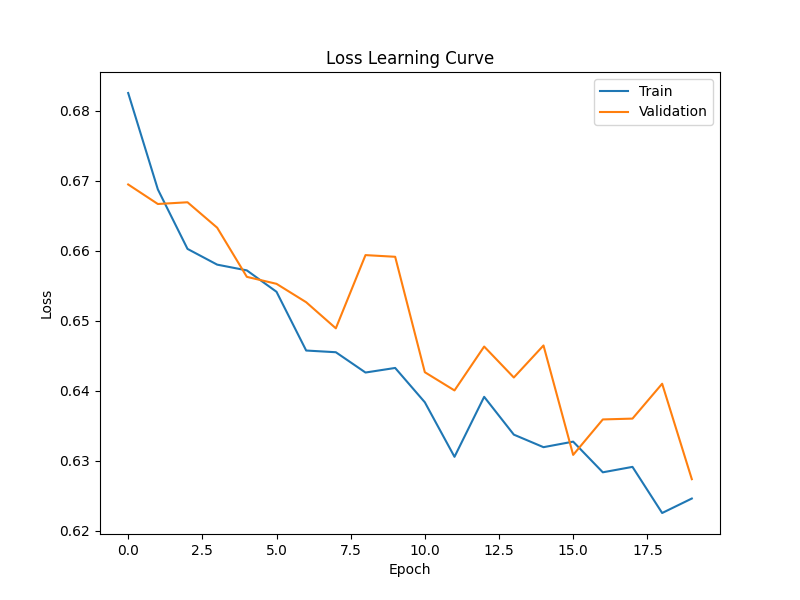
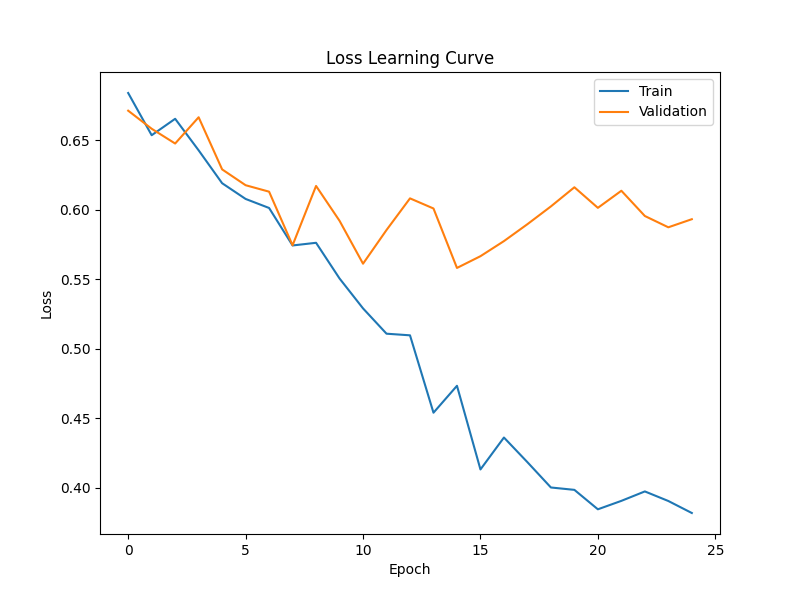
Revamp the model to enable unfreezing blocks in a schedule and optimizing the learning rate

diff --git a/main.py b/main.py
@@ -1,5 +1,5 @@
 import torch
-from torch.utils.data import Dataset, DataLoader
+from torch.utils.data import Dataset, DataLoader, Subset
 from torchvision import transforms
 import torchvision.models as models
 import torch.nn as nn
@@ -11,6 +11,7 @@ import numpy as np
 from sklearn.metrics import accuracy_score, precision_score, recall_score, f1_score
 import matplotlib.pyplot as plt
 from sklearn.model_selection import StratifiedKFold
+from torch.utils.data import WeightedRandomSampler
 
 class Config:
     DATA_DIR = Path("data/raw")
@@ -19,47 +20,39 @@ class Config:
     BATCH_SIZE = 16
     NUM_WORKERS = 0
     IMAGE_SIZE = 224
-    NUM_EPOCHS = 20
+    NUM_EPOCHS = 25
     LEARNING_RATE = 1e-4
+    WEIGHT_DECAY = 1e-5           # added to reduce overfitting
     DEVICE = torch.device("cuda" if torch.cuda.is_available() else "cpu")
     CHECKPOINT_DIR = Path("checkpoints")
     CHECKPOINT_DIR.mkdir(exist_ok=True)
     PLOT_DIR = Path("plots")
     PLOT_DIR.mkdir(exist_ok=True)
 
-class MammogramDataset(Dataset):
-    def __init__(self, csv_types, transform=None):
-    # list of csv_types: ["mass_train", "mass_test", "calc_train", "calc_test"]
-        self.transform = transform
+class MammogramRawDataset(Dataset):
+    def __init__(self, csv_types):
+
         self.samples = []
-
-       #scan image directory once
         all_images = list(Config.JPEG_DIR.rglob("*.jpg"))
-        print(f" Found {len(all_images)} total JPG files")
+        print(f"Found {len(all_images)} total JPG files")
 
-        #process each csv file 
         for csv_type in csv_types:
             csv_path = self._get_csv_path(csv_type)
             if not csv_path.exists():
-                print(f" Warning: {csv_path} not found, skipping.")
+                print(f"Warning: {csv_path} not found, skipping.")
                 continue
 
             df = pd.read_csv(csv_path)
-
-            # Keep only rows with pathology info
-            df = df.dropna(subset=["pathology"])
-
-            for idx, row in df.iterrows():
+            df = df.dropna(subset=["pathology"])   # keep only rows with pathology
+            for _, row in df.iterrows():
                 pathology = row["pathology"].strip().lower()
-                # Map to binary benign if contains "benign", else malignant
-                label = 0 if "benign" in pathology else 1
+                label = 0 if "benign" in pathology else 1   # 0=benign, 1=malignant
 
-                # Try to find the corresponding image
                 img_path = self._find_image_path(row, all_images)
                 if img_path is not None:
                     self.samples.append((img_path, label))
-    
-        print(f" Loaded {len(self.samples)} labelled samples from {csv_types}")
+
+        print(f"Loaded {len(self.samples)} labelled samples from {csv_types}")
 
     def _get_csv_path(self, csv_type):
         csv_files = {
@@ -75,7 +68,7 @@ class MammogramDataset(Dataset):
             if col in row and isinstance(row[col], str):
                 parts = row[col].split("/")
                 if len(parts) >= 3:
-                    uid = parts[2]  
+                    uid = parts[2]   
                     for img_path in all_images:
                         if uid in str(img_path):
                             return img_path
@@ -87,11 +80,26 @@ class MammogramDataset(Dataset):
     def __getitem__(self, idx):
         img_path, label = self.samples[idx]
         image = Image.open(img_path).convert("RGB")
+        return image, label  
 
+
+#apply transforms
+class TransformDataset(Dataset):
+    def __init__(self, dataset, transform=None):
+        self.dataset = dataset
+        self.transform = transform
+
+    def __len__(self):
+        return len(self.dataset)
+
+    def __getitem__(self, idx):
+        image, label = self.dataset[idx]
         if self.transform:
             image = self.transform(image)
-
         return image, label
+
+
+#Transforms
 def get_train_transforms():
     return transforms.Compose([
         transforms.Resize((Config.IMAGE_SIZE, Config.IMAGE_SIZE)),
@@ -113,22 +121,23 @@ def get_val_transforms():
 def create_model():
     model = models.efficientnet_b0(weights=models.EfficientNet_B0_Weights.IMAGENET1K_V1)
 
-    # Freeze early layers
+    # Freeze all layers initially
     for param in model.parameters():
         param.requires_grad = False
 
-    #Classifier
     num_features = model.classifier[1].in_features
     model.classifier = nn.Sequential(
-        nn.Dropout(p=0.2, inplace=True),
-        nn.Linear(num_features, 2)  # 2 classes: benign(0), malignant(1)
+        nn.Dropout(p=0.3),   
+        nn.Linear(num_features, 2)
     )
 
-    # Unfreeze the classifier
+    # Unfreeze classifier only
     for param in model.classifier.parameters():
         param.requires_grad = True
 
     return model.to(Config.DEVICE)
+
+
 def train_one_epoch(model, loader, criterion, optimizer):
     model.train()
     running_loss = 0.0
@@ -152,6 +161,7 @@ def train_one_epoch(model, loader, criterion, optimizer):
     epoch_loss = running_loss / len(loader.dataset)
     epoch_acc = accuracy_score(all_labels, all_preds)
     return epoch_loss, epoch_acc
+
 
 def validate(model, loader, criterion):
     model.eval()
@@ -177,122 +187,88 @@ def validate(model, loader, criterion):
     epoch_f1 = f1_score(all_labels, all_preds, zero_division=0)
     return epoch_loss, epoch_acc, epoch_prec, epoch_rec, epoch_f1
 
+
 def save_learning_curve(train_values, val_values, ylabel, filename):
-
     plt.figure(figsize=(8, 6))
-
     plt.plot(train_values, label="Train")
     plt.plot(val_values, label="Validation")
-
     plt.xlabel("Epoch")
     plt.ylabel(ylabel)
     plt.title(f"{ylabel} Learning Curve")
     plt.legend()
-
     plt.savefig(Config.PLOT_DIR / filename)
-
     plt.close()
-
-def create_full_dataset():
-
-    datasets = [
-        MammogramDataset(["mass_train"], transform=get_train_transforms()),
-        MammogramDataset(["calc_train"], transform=get_train_transforms())
-    ]
-
-    full_dataset = torch.utils.data.ConcatDataset(datasets)
-
-    labels = []
-
-    for dataset in datasets:
-        labels.extend([label for _, label in dataset.samples])
-
-    return full_dataset, np.array(labels)
 
 
 def train_kfold():
+    raw_dataset = MammogramRawDataset(["mass_train", "calc_train"])
+    labels = [label for _, label in raw_dataset.samples]
 
-    full_dataset, labels = create_full_dataset()
-
-    skf = StratifiedKFold(
-        n_splits=5,
-        shuffle=True,
-        random_state=42
-    )
-
+    skf = StratifiedKFold(n_splits=5, shuffle=True, random_state=42)
     fold_results = []
 
     for fold, (train_idx, val_idx) in enumerate(skf.split(np.zeros(len(labels)), labels)):
-
         print(f"\n========== Fold {fold+1}/5 ==========")
 
-        train_subset = torch.utils.data.Subset(full_dataset, train_idx)
-        val_subset = torch.utils.data.Subset(full_dataset, val_idx)
-        
-        # Compute class weights for the training set
-        train_labels = labels[train_idx]
+        train_raw = Subset(raw_dataset, train_idx)
+        val_raw   = Subset(raw_dataset, val_idx)
 
+        train_dataset = TransformDataset(train_raw, transform=get_train_transforms())
+        val_dataset   = TransformDataset(val_raw,   transform=get_val_transforms())
+
+        # Weighted sampler for training
+        train_labels = np.array(labels)[train_idx]
         class_counts = np.bincount(train_labels)
-
         class_weights = 1.0 / class_counts
+        sample_weights = class_weights[train_labels]
+        sampler = WeightedRandomSampler(sample_weights, num_samples=len(sample_weights), replacement=True)
 
-        class_weights = class_weights / class_weights.sum()
+        train_loader = DataLoader(train_dataset, batch_size=Config.BATCH_SIZE,
+                                  sampler=sampler, num_workers=Config.NUM_WORKERS)
+        val_loader = DataLoader(val_dataset, batch_size=Config.BATCH_SIZE,
+                                shuffle=False, num_workers=Config.NUM_WORKERS)
 
-        class_weights = torch.tensor(
-            class_weights,
-            dtype=torch.float32
-        ).to(Config.DEVICE)
-
-        train_loader = DataLoader(
-            train_subset,
-            batch_size=Config.BATCH_SIZE,
-            shuffle=True,
-            num_workers=Config.NUM_WORKERS
-        )
-
-        val_loader = DataLoader(
-            val_subset,
-            batch_size=Config.BATCH_SIZE,
-            shuffle=False,
-            num_workers=Config.NUM_WORKERS
-        )
-
-        model = create_model()
-
+        model = create_model()  
         criterion = nn.CrossEntropyLoss()
 
-        optimizer = optim.Adam(
-            model.parameters(),
-            lr=Config.LEARNING_RATE
-        )
 
-        scheduler = optim.lr_scheduler.ReduceLROnPlateau(
-            optimizer,
-            mode='min',
-            patience=3,
-            factor=0.1
-        )
+
+        # unfreeze the last two  blocks gradually
+        unfreeze_schedule = {
+            3: [7],        # unfreeze last  block at epoch 3
+            8: [6, 7]      # unfreeze second‑last and last at epoch 8
+        }
+
+        def get_optimizer():
+            params = []
+            # Classifier: high learning rate
+            params.append({'params': model.classifier.parameters(), 'lr': 1e-3, 'weight_decay': Config.WEIGHT_DECAY})
+            for name, param in model.named_parameters():
+                if param.requires_grad and 'classifier' not in name:
+                    params.append({'params': param, 'lr': 1e-4, 'weight_decay': Config.WEIGHT_DECAY})
+            return optim.AdamW(params, lr=1e-5) 
+
+        optimizer = get_optimizer()
+        scheduler = optim.lr_scheduler.ReduceLROnPlateau(optimizer, mode='min', patience=2, factor=0.5)
 
         best_val_loss = float('inf')
+        train_losses, val_losses = [], []
+        train_accs, val_accs = [], []
 
-        train_losses = []
-        val_losses = []
-        train_accs = []
-        val_accs = []
         for epoch in range(Config.NUM_EPOCHS):
+            # Unfreeze blocks according to schedule
+            if epoch in unfreeze_schedule:
+                blocks_to_unfreeze = unfreeze_schedule[epoch]
+                print(f"Unfreezing blocks: {blocks_to_unfreeze}")
+                for block_idx in blocks_to_unfreeze:
+                    for param in model.features[block_idx].parameters():
+                        param.requires_grad = True
+                optimizer = get_optimizer()
+                scheduler = optim.lr_scheduler.ReduceLROnPlateau(optimizer, mode='min', patience=2, factor=0.5)
 
-            train_loss, train_acc = train_one_epoch(
-                model,
-                train_loader,
-                criterion,
-                optimizer
-            )
+            train_loss, train_acc = train_one_epoch(model, train_loader, criterion, optimizer)
+            val_loss, val_acc, val_prec, val_rec, val_f1 = validate(model, val_loader, criterion)
 
-            val_loss, val_acc, val_prec, val_rec, val_f1 = validate(
-                model,
-                val_loader,
-                criterion
-            )
             train_losses.append(train_loss)
             val_losses.append(val_loss)
             train_accs.append(train_acc)
@@ -302,49 +278,22 @@ def train_kfold():
 
             print(f"Fold {fold+1} Epoch {epoch+1}/{Config.NUM_EPOCHS}")
             print(f"Train Loss: {train_loss:.4f} Acc: {train_acc:.4f}")
-            print(
-                f"Val Loss: {val_loss:.4f} "
-                f"Acc: {val_acc:.4f} "
-                f"Prec: {val_prec:.4f} "
-                f"Rec: {val_rec:.4f} "
-                f"F1: {val_f1:.4f}"
-            )
+            print(f"Val Loss: {val_loss:.4f} Acc: {val_acc:.4f} Prec: {val_prec:.4f} Rec: {val_rec:.4f} F1: {val_f1:.4f}")
 
             if val_loss < best_val_loss:
                 best_val_loss = val_loss
+                torch.save(model.state_dict(), Config.CHECKPOINT_DIR / f"best_model_fold_{fold+1}.pth")
 
-                torch.save(
-                    model.state_dict(),
-                    Config.CHECKPOINT_DIR / f"best_model_fold_{fold+1}.pth"
-                )
-        save_learning_curve(
-            train_losses,
-            val_losses,
-            "Loss",
-            f"fold_{fold+1}_loss.png"
-        )
+        save_learning_curve(train_losses, val_losses, "Loss", f"fold_{fold+1}_loss.png")
+        save_learning_curve(train_accs, val_accs, "Accuracy", f"fold_{fold+1}_accuracy.png")
 
-        save_learning_curve(
-            train_accs,
-            val_accs,
-            "Accuracy",
-            f"fold_{fold+1}_accuracy.png"
-        )
+        fold_results.append(val_accs[-1])
 
-        fold_results.append(val_acc)
-        
     print("\n========== Final Cross Validation ==========")
     print(f"Mean Accuracy: {np.mean(fold_results):.4f}")
     print(f"Std Accuracy : {np.std(fold_results):.4f}")
 
 if __name__ == "__main__":
-    print("PyTorch EfficientNet 5-Fold Cross Validation")
+    print("PyTorch EfficientNet 5-Fold Cross Validation (fixed)")
     print(f"Device: {Config.DEVICE}")
-
     train_kfold()
-    # Build model
-    model = create_model()
-    print("Model created. Trainable parameters:")
-    for name, param in model.named_parameters():
-        if param.requires_grad:
-            print(f"  {name}")
